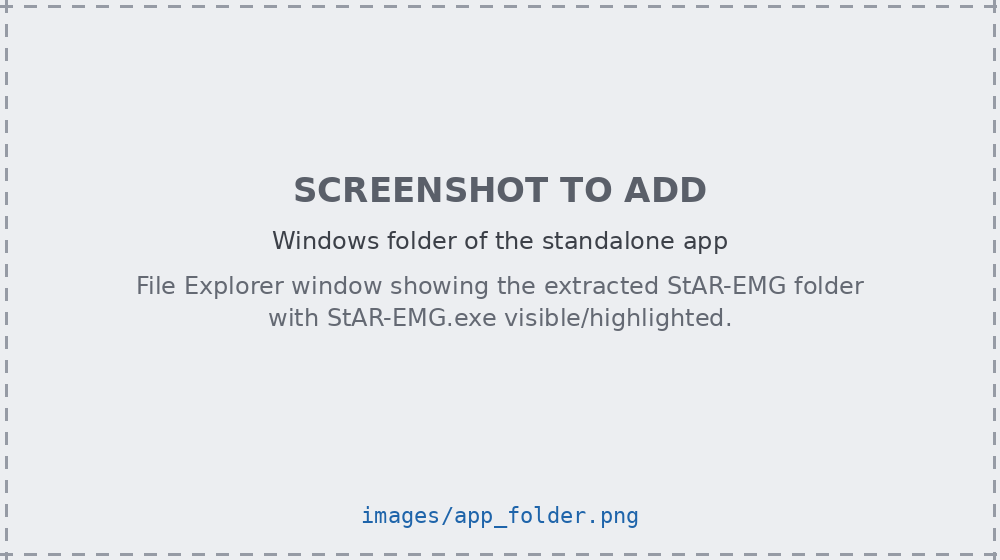
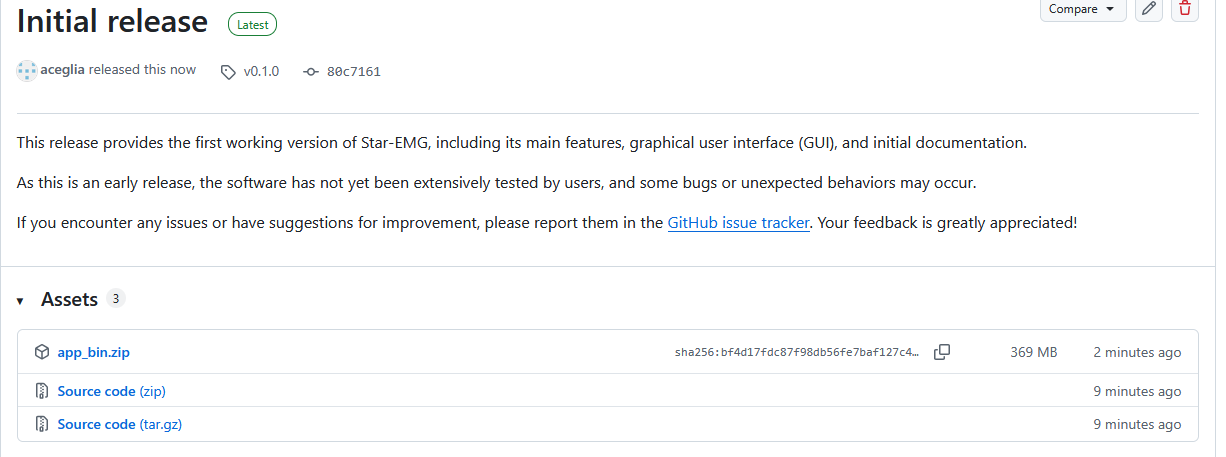
update_doc

diff --git a/docs/source/install.md b/docs/source/install.md
@@ -15,11 +15,9 @@ matches your use case.
 The standalone application is a Windows-only build of the graphical interface.
 It bundles its own Python runtime, so **nothing else needs to be installed**.
 
-1. Download the latest `StAR-EMG` release from the
-   [GitHub repository](https://github.com/aceglia/star-emg).
-2. Extract the archive to a folder of your choice (for example
-   `C:\Tools\StAR-EMG`).
-3. Double-click **`StAR-EMG.exe`** in the extracted folder.
+1. Go on the latest release of star-emg [https://github.com/aceglia/star-emg/releases].
+2. Extract the app_bin.zip file in the assets.
+3. Double-click **`StAR-EMG.exe`** in the extracted dist/Star-emg folder.
 
 ```{figure} images/app_folder.png
 :alt: Content of the extracted StAR-EMG folder on Windows, with StAR-EMG.exe highlighted.
@@ -39,6 +37,9 @@ it. To make a shortcut, right-click the `.exe` and choose *Send to > Desktop
 The standalone application does not necessarily contain the most recent
 developments of the Python package. It is rebuilt and updated at every
 release.
+```
+```{note}
+A console open when using the app. Please keep it open and repport any message when creating an issue about a bug. 
 ```
 
 Once the application opens, continue with {doc}`remover_app`.
@@ -63,15 +64,6 @@ Once the application opens, continue with {doc}`remover_app`.
 | `cma`          | Experimental parameter optimizer (`star_emg.optimizer`)           | Optional |
 | `tkinter`      | Result window. Included with the standard Python installers and with conda Python | Always |
 
-```{note}
-`biosiglive` is developed in parallel with `StAR-EMG`. The real-time features
-rely on its `CircularBuffer` and `AsyncTCPClient` classes, which are not
-available in every published release. If you get an `ImportError` mentioning
-one of these names, install the development version of `biosiglive` from
-GitHub:
-
-    pip install git+https://github.com/aceglia/biosiglive.git
-```
 
 ### Installing from conda
 
@@ -91,11 +83,10 @@ conda install -c conda-forge star_emg
    conda activate star_emg
    ```
 
-3. Install the dependencies that are not part of that file:
+3. Install the dependencies that are not part of that file (if needed):
 
    ```bash
-   pip install control
-   pip install git+https://github.com/aceglia/biosiglive.git
+   pip install control fbpca
    ```
 
 4. Install the package from the root folder of the repository:
@@ -196,5 +187,5 @@ reading, no GUI, no notch filter). Build instructions are given in {doc}`cpp`.
 ## Using the documentation examples
 
 Several examples refer to a `data` folder that contains sample recordings
-(for instance `data\test001.txt`). Replace these paths with your own files; see
+(for instance `data\example.npz`). Replace these paths with your own files; see
 {doc}`data_formats` for the accepted formats.
